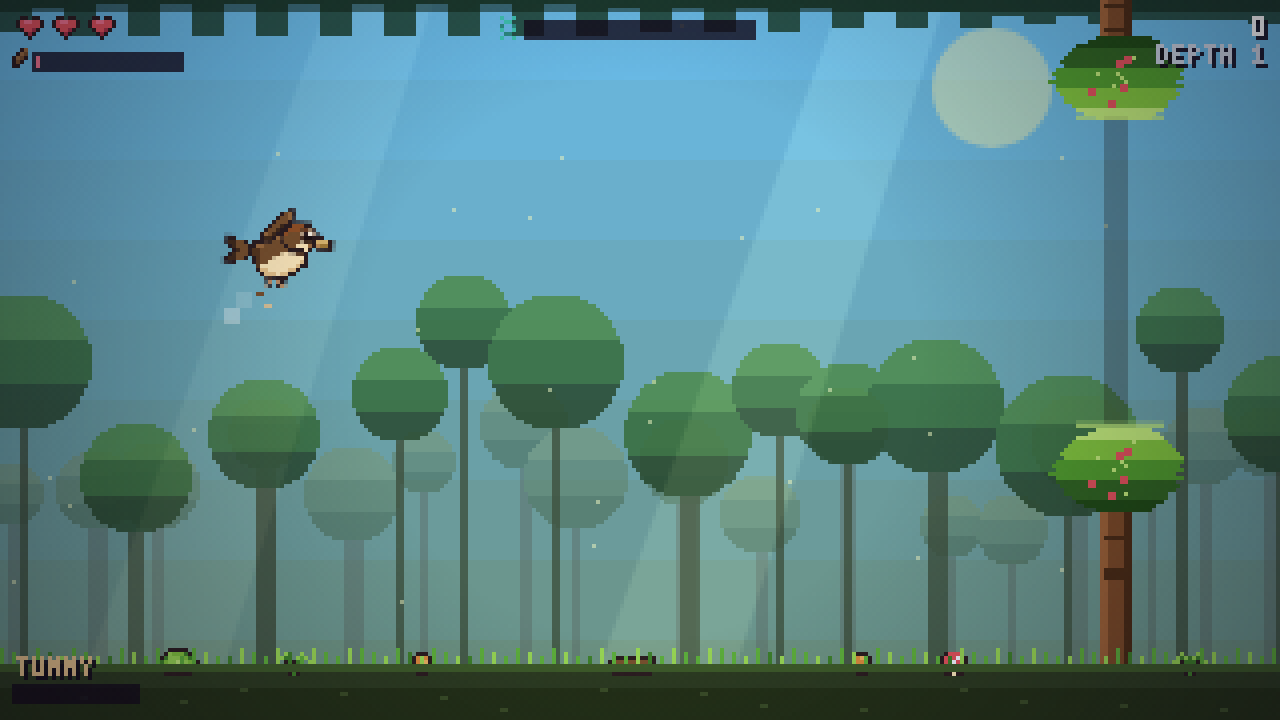
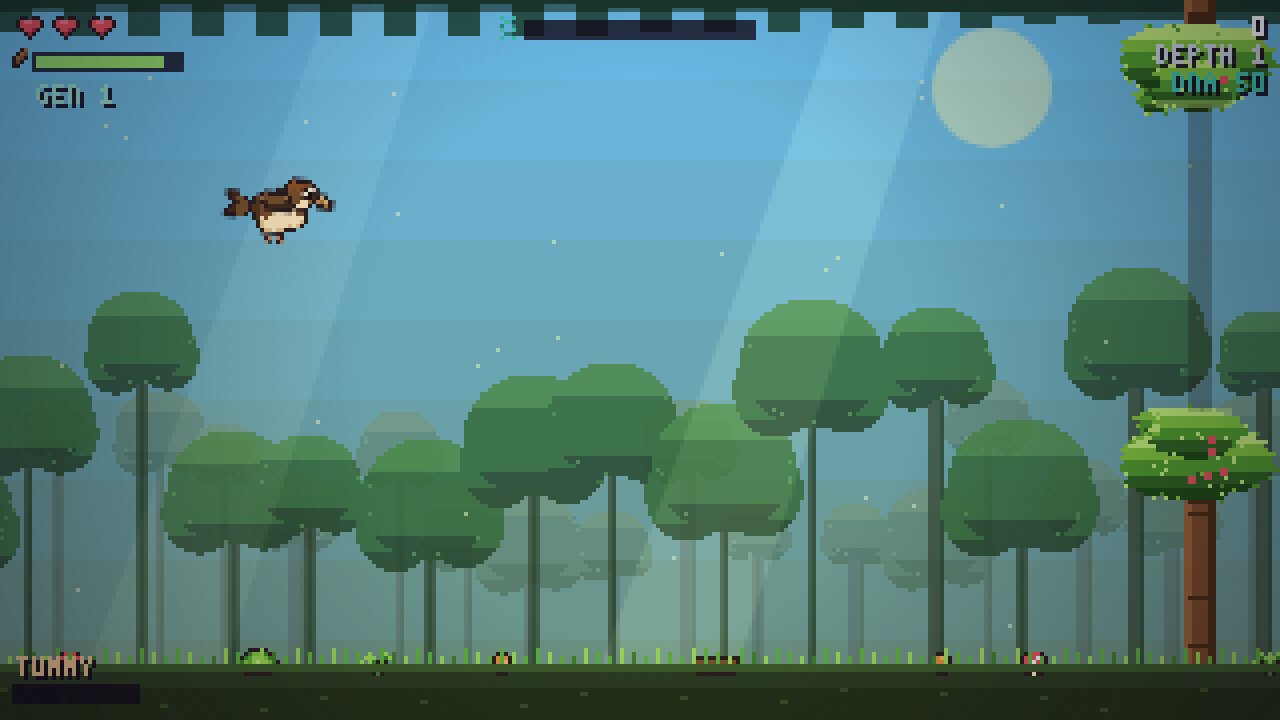
Wooden Stardew UI, Slay-the-Spire menu, detailed bg trees, mini-games
UI reskin (Stardew-Valley wooden)
- Rewrote the shared panel primitive into a carved wooden sign: plank-grain
  frame, dark inner board, corner nails. It propagates to every menu, card,
  nest summary, banner, plaque and death screen for a cohesive warm-wood look

Main menu (Slay-the-Spire style)
- Framed wooden title banner, three glowing wooden card buttons with a
  gold selection border + markers, a perched evolved "hero" bird, Darwin's
  sign, and DNA/best wooden plaques with icons, over a dimmed ember-lit forest

Background trees
- Rebuilt the parallax band builder to draw branchy trees with tapered
  shaded trunks, limbs and layered organic multi-lobe canopies with lit
  crowns and scattered leaves — the background forest now matches the
  foreground detail and reads with real depth

More mini-games
- Added two bonus events alongside the bug chase, rolled at random per leg:
  THERMAL RING (fly through the glowing hoop for a PERFECT boost + energy +
  score) and FRUIT RUSH (a wave of fruit floods in; feast for a combo bonus)

Note: the game stays at its crisp 320x180 integer-scaled resolution; detail
was increased via richer art rather than a resolution change (which would
blur the pixel sprites).

Claude-Session: https://claude.ai/code/session_01SmxdWm76vVoxCaBjYmZVfe

diff --git a/js/game.js b/js/game.js
@@ -256,7 +256,7 @@
       snapperTimer: biome.hazards.indexOf('snapper') >= 0 ? rnd(3.5, 6) : -1,
       hawkTimer: biome.hazards.indexOf('hawk') >= 0 ? rnd(4, 7) : -1,
       falconTimer: biome.hazards.indexOf('falcon') >= 0 ? rnd(5, 9) : -1, falcon: null,
-      chaseTimer: rnd(4.5, 9), chaseBug: null,
+      chaseTimer: rnd(4.5, 9), chaseBug: null, thermal: null, rush: null, eventBanner: null,
       legDiet: { berry: 0, seed: 0, nut: 0, bug: 0, gold: 0 },
       cam: { scale: 1, focusX: W / 2, focusY: H / 2, kickX: 0, kickY: 0 },
     };
@@ -752,16 +752,19 @@
     }
     updateFalcon(dt);
     updateDurians(dt);
-    // chase-bug event
+    // random bonus mini-game event (chase / thermal ring / fruit rush)
     if (world.chaseTimer > 0 && world.phase === 'fly') {
       world.chaseTimer -= dt;
-      if (world.chaseTimer <= 0 && !world.chaseBug && world.spawned > 2) {
-        world.chaseBug = { x: bird.x + 72, y: bird.y, t: 0, life: 6, phase: 0 };
-        if (run.tut.chase) { run.tut.chase = false; addFloat(bird.x, bird.y - 24, 'CHASE THE BUG!', '#fff3a8'); }
-        AUDIO.play('evoReady');
+      if (world.chaseTimer <= 0 && world.spawned > 2 && !world.chaseBug && !world.thermal && !world.rush) {
+        const ev = pick(['chase', 'thermal', 'rush']);
+        if (ev === 'chase') { world.chaseBug = { x: bird.x + 72, y: bird.y, t: 0, life: 6, phase: 0 }; if (run.tut.chase) { run.tut.chase = false; addFloat(bird.x, bird.y - 24, 'CHASE THE BUG!', '#fff3a8'); } AUDIO.play('evoReady'); }
+        else if (ev === 'thermal') startThermal();
+        else startRush();
+        world.chaseTimer = rnd(8, 14); // allow another event later this leg
       }
     }
-    updateChase(dt);
+    updateChase(dt); updateThermal(dt); updateRush(dt);
+    if (world.eventBanner) { world.eventBanner.t += dt; if (world.eventBanner.t > 2.2) world.eventBanner = null; }
 
     // floor contact — varies by environment
     if (!bird.dead && bird.y + 5 > SEA_Y && world.phase === 'fly') {
@@ -1110,6 +1113,54 @@
     drawSpeech(px + 22, py - 4, step.lines, 96);
   }
 
+  // ---------- mini-game events ----------
+  function startThermal() {
+    world.thermal = { x: W + 24, y: rnd(48, SEA_Y - 48), t: 0, passed: false };
+    world.eventBanner = { text: 'THERMAL! FLY THROUGH THE RING', t: 0 };
+    AUDIO.play('evoReady');
+  }
+  function updateThermal(dt) {
+    const th = world.thermal; if (!th) return;
+    th.t += dt; th.x -= world.speed * dt;
+    if (Math.random() < 0.4) parts.push({ type: 'puff', x: th.x + rnd(-9, 9), y: th.y + 12, vx: rnd(-6, 6), vy: -rnd(20, 44), g: -6, t: 0, life: 0.6, color: 'rgba(255,210,140,0.6)' });
+    if (!th.passed && !bird.dead && !bird.latched && Math.abs(th.x - bird.x) < 7 && Math.abs(th.y - bird.y) < 11) {
+      th.passed = true; th.fade = 0.5;
+      bird.boost = Math.max(bird.boost, 0.7); bird.energy = bird.maxEnergy || 100; bird.vy = -110;
+      run.score += 40; run.evo += 20; run.scorePop = 0.25; addDNA(2);
+      AUDIO.play('heart'); AUDIO.play('confirm'); slowmo(0.12);
+      addFloat(bird.x, bird.y - 18, 'PERFECT! +40', '#fff3a8', true);
+      spawnParts(16, function () { return sparkle(th.x + rnd(-10, 10), th.y + rnd(-10, 10), pick(['#fff3a8', '#ffd257', '#a8e4f2'])); });
+    }
+    if (th.x < -22) world.thermal = null;
+  }
+  function drawThermal() {
+    const th = world.thermal; if (!th) return;
+    const pulse = 11 + Math.sin(time * 6) * 1.5;
+    ctx.strokeStyle = th.passed ? 'rgba(150,240,180,0.9)' : 'rgba(255,210,120,' + (0.55 + 0.25 * Math.sin(time * 8)).toFixed(2) + ')';
+    ctx.lineWidth = 2; ctx.beginPath(); ctx.ellipse(th.x, th.y, 7, pulse, 0, 0, 6.28); ctx.stroke();
+    ctx.strokeStyle = 'rgba(255,255,255,0.5)'; ctx.lineWidth = 1;
+    ctx.beginPath(); ctx.ellipse(th.x, th.y, 7, pulse, 0, 0, 6.28); ctx.stroke();
+  }
+  function startRush() {
+    world.rush = { t: 0, dur: 4.5, cd: 0, startFood: run.foodEaten };
+    world.eventBanner = { text: 'FRUIT RUSH! FEAST!', t: 0 };
+    AUDIO.play('evoReady');
+  }
+  function updateRush(dt) {
+    const r = world.rush; if (!r) return;
+    r.t += dt; r.cd -= dt;
+    if (r.cd <= 0 && r.t < r.dur) {
+      r.cd = 0.34;
+      const kind = pick(['berry', 'nectar', 'mango', 'berry', 'gold']), def = FOODS[kind];
+      world.foods.push({ kind: kind, def: def, x: W + 12, baseY: rnd(34, SEA_Y - 26), y: 0, phase: rnd(0, 6.28), wander: 0, hopT: 0, vy: 0 });
+    }
+    if (r.t >= r.dur) {
+      const eaten = run.foodEaten - r.startFood;
+      if (eaten >= 3) { const bonus = eaten * 8; run.score += bonus; addDNA(eaten); addFloat(bird.x, bird.y - 20, 'FEAST! +' + bonus, '#f6c945', true); AUDIO.play('confirm'); }
+      world.rush = null;
+    }
+  }
+
   // ---------- cutscene + island ----------
   const CINE = { reveal: 0, pan: 0.5, panEnd: 1.6, glide: 2.15, flare: 2.55, touch: 2.95, settle: 3.15, end: 3.95 };
   const ISLAND_REST = 176;
@@ -1319,17 +1370,33 @@
   function buildForestBand(w, h, pal, density, canR) {
     const cvv = document.createElement('canvas'); cvv.width = w; cvv.height = h;
     const c = cvv.getContext('2d');
-    let x = 6;
-    while (x < w - 6) {
-      const th = irnd(Math.floor(h * 0.55), h - 2), tw = irnd(2, 5);
-      c.fillStyle = pal.trunk; c.fillRect(x, h - th, tw, th);
-      const cr = irnd(canR[0], canR[1]), cyc = h - th + cr - 2;
-      for (let yy = -cr; yy <= cr; yy++) {
-        const hw = Math.round(cr * Math.sqrt(Math.max(0, 1 - (yy / cr) * (yy / cr))));
-        const lit = 0.5 - yy / cr * 0.5;
-        c.fillStyle = lit > 0.66 ? pal.hi : (lit > 0.33 ? pal.mid : pal.deep);
-        c.fillRect(x + Math.floor(tw / 2) - hw, cyc + yy, hw * 2, 1);
+    function lobe(cx, cy, rx, ry) {
+      for (let dy = -ry; dy <= ry; dy++) {
+        const yy = Math.round(cy + dy);
+        const hw = Math.round(rx * Math.sqrt(Math.max(0, 1 - (dy / ry) * (dy / ry))));
+        if (hw <= 0) continue;
+        const lit = 0.5 - dy / ry * 0.5;
+        c.fillStyle = lit > 0.72 ? pal.hi : (lit > 0.46 ? pal.mid : (lit > 0.2 ? pal.mid : pal.deep));
+        c.fillRect(Math.round(cx - hw), yy, hw * 2, 1);
       }
+    }
+    let x = 8;
+    while (x < w - 6) {
+      const th = irnd(Math.floor(h * 0.5), h - 2), tw = irnd(2, 4), cx = x + Math.floor(tw / 2);
+      // tapered shaded trunk
+      c.fillStyle = pal.trunk; c.fillRect(cx - Math.floor(tw / 2), h - th, tw, th);
+      c.fillStyle = pal.deep; c.fillRect(cx + Math.floor(tw / 2) - 1, h - th, 1, th);
+      const cr = irnd(canR[0], canR[1]), cyc = h - th + cr - 1;
+      // a couple of branches poking toward the canopy
+      c.fillStyle = pal.trunk;
+      for (let bI = 0; bI < 2; bI++) { const side = bI ? 1 : -1; for (let l = 1; l < cr * 0.7; l++) c.fillRect(cx + side * l, Math.round(cyc + cr * 0.4 - l * 0.5), 1, 1); }
+      // layered organic canopy (3 lobes) with a lit crown
+      lobe(cx - cr * 0.5, cyc + cr * 0.18, cr * 0.6, cr * 0.66);
+      lobe(cx + cr * 0.5, cyc + cr * 0.12, cr * 0.6, cr * 0.66);
+      lobe(cx, cyc - cr * 0.22, cr, cr * 0.9);
+      // scattered rim leaves
+      c.fillStyle = pal.hi;
+      for (let i = 0; i < 7; i++) { const a = orand(x * 7 + i, i * 3) * 6.28; c.fillRect(Math.round(cx + Math.cos(a) * cr * 0.92), Math.round(cyc - cr * 0.2 + Math.sin(a) * cr * 0.82), 1, 1); }
       x += tw + irnd(density[0], density[1]);
     }
     return cvv;
@@ -1904,11 +1971,28 @@
   }
 
   // ---------- render: HUD ----------
+  // wooden Stardew-style sign panel: carved wood frame + dark inner board
   function drawPanel(x, y, w2, h2) {
-    ctx.fillStyle = 'rgba(18,12,30,0.92)'; ctx.fillRect(x + 1, y + 1, w2 - 2, h2 - 2);
-    ctx.fillStyle = '#6a5a8c';
-    ctx.fillRect(x + 1, y, w2 - 2, 1); ctx.fillRect(x + 1, y + h2 - 1, w2 - 2, 1);
-    ctx.fillRect(x, y + 1, 1, h2 - 2); ctx.fillRect(x + w2 - 1, y + 1, 1, h2 - 2);
+    x = Math.round(x); y = Math.round(y); w2 = Math.round(w2); h2 = Math.round(h2);
+    // wood frame body with plank grain
+    ctx.fillStyle = '#5c3a1e'; ctx.fillRect(x, y, w2, h2);
+    ctx.fillStyle = '#7c4f28'; ctx.fillRect(x + 1, y + 1, w2 - 2, h2 - 2);
+    ctx.fillStyle = '#8f5e34'; ctx.fillRect(x + 1, y + 1, w2 - 2, 1); ctx.fillRect(x + 1, y + 1, 1, h2 - 2);
+    ctx.fillStyle = '#3f2712'; ctx.fillRect(x + 1, y + h2 - 2, w2 - 2, 1); ctx.fillRect(x + w2 - 2, y + 1, 1, h2 - 2);
+    ctx.fillStyle = '#6a4526';
+    for (let gx = x + 4; gx < x + w2 - 3; gx += 7) ctx.fillRect(gx, y + 1, 1, h2 - 2);
+    // dark inner board
+    const b = 3;
+    if (w2 > 2 * b + 2 && h2 > 2 * b + 2) {
+      ctx.fillStyle = '#241611'; ctx.fillRect(x + b, y + b, w2 - 2 * b, h2 - 2 * b);
+      ctx.fillStyle = '#31201a'; ctx.fillRect(x + b, y + b, w2 - 2 * b, 1);
+      ctx.fillStyle = '#180f0a'; ctx.fillRect(x + b, y + h2 - b - 1, w2 - 2 * b, 1);
+    }
+    // corner nails
+    if (w2 >= 20 && h2 >= 16) {
+      const nn = [[x + 3, y + 3], [x + w2 - 5, y + 3], [x + 3, y + h2 - 5], [x + w2 - 5, y + h2 - 5]];
+      for (const c of nn) { ctx.fillStyle = '#d8b878'; ctx.fillRect(c[0], c[1], 2, 2); ctx.fillStyle = '#8a6a2e'; ctx.fillRect(c[0] + 1, c[1] + 1, 1, 1); }
+    }
   }
 
   function drawSpeech(x, y, lines, w2) {
@@ -2082,6 +2166,7 @@
     drawDurians();
     drawFoods();
     drawChase();
+    drawThermal();
     drawSnappers();
     drawSea();
     drawBirdFull();
@@ -2091,6 +2176,7 @@
     ctx.restore();
     drawHUD();
     drawBanner();
+    if (world.eventBanner && Math.floor(time * 6) % 2) drawTextShadow(ctx, world.eventBanner.text, W / 2, 58, '#fff3a8', 1, 'center');
     if (!cine && run.darwin) drawDarwin();
     if (cine) drawCineTitle();
     if (world.fade > 0) { ctx.fillStyle = 'rgba(10,6,18,' + clamp(world.fade, 0, 1).toFixed(2) + ')'; ctx.fillRect(0, 0, W, H); }
@@ -2130,37 +2216,59 @@
     if (ui.flash > 0) { ctx.fillStyle = 'rgba(63,192,176,' + (ui.flash * 0.6).toFixed(2) + ')'; ctx.fillRect(0, 0, W, H); }
   }
 
+  // small wooden plaque with a label + value (for DNA / BEST)
+  function drawPlaque(x, y, w2, icon, label, col) {
+    drawPanel(x, y, w2, 15);
+    if (icon) ctx.drawImage(icon, x + 4, y + 4);
+    drawTextShadow(ctx, label, x + w2 - 4, y + 5, col, 1, 'right');
+  }
+
   function renderTitle() {
     drawBackground(time * 12);
     drawSea();
-    const ly = 18 + Math.round(Math.sin(time * 1.2) * 2);
+    // atmospheric dim + drifting embers for a Slay-the-Spire mood
+    ctx.fillStyle = 'rgba(12,8,20,0.32)'; ctx.fillRect(0, 0, W, H);
+    ctx.fillStyle = 'rgba(255,196,110,0.5)';
+    for (let i = 0; i < 14; i++) { const ex = (i * 53 + time * (8 + i % 5)) % W; const ey = (H - 20 - ((time * (10 + i % 4) + i * 40) % (H - 30))); ctx.fillRect(Math.round(ex), Math.round(ey), 1, 1); }
+
+    // title banner (wooden sign) + logo
+    drawPanel(W / 2 - 78, 10, 156, 46);
+    const ly = 16 + Math.round(Math.sin(time * 1.2) * 1);
     FONT.drawTextOutline(ctx, 'FLAPPY', W / 2, ly, '#f6c945', 3, 'center');
-    FONT.drawTextOutline(ctx, 'DARWIN', W / 2, ly + 20, '#3fc0b0', 3, 'center');
-    drawTextShadow(ctx, 'EAT. DIGEST. EVOLVE.', W / 2, ly + 42, '#ffffff', 1, 'center');
-    // an evolved demo bird glides across
-    const dbx = 40 + ((time * 26) % (W + 40)), dby = 66 + Math.sin(time * 1.6) * 6;
-    SPR.drawBird(ctx, dbx, dby, Math.sin(time * 1.6 + 1) * 0.1, {
-      frame: Math.floor(time * 9) % 3, open: false, bigWings: true, bigTail: true, crest: 3,
-      blink: Math.sin(time * 0.7) > 0.97, time: time, sx: 1, sy: 1,
+    FONT.drawTextOutline(ctx, 'DARWIN', W / 2, ly + 19, '#3fc0b0', 3, 'center');
+    drawText(ctx, 'EAT. DIGEST. EVOLVE.', W / 2, ly + 38, '#c9b088', 1, 'center');
+
+    // a perched evolved "hero" bird beside the sign
+    const dby = 74 + Math.sin(time * 1.6) * 3;
+    SPR.drawBird(ctx, 46, dby, Math.sin(time * 1.6 + 1) * 0.08, {
+      frame: bird && bird.flapT > 0 ? Math.floor(time * 12) % 3 : 1, open: false, bigWings: true, bigTail: true, crest: 3,
+      legsDown: true, blink: Math.sin(time * 0.7) > 0.97, time: time, sx: 1, sy: 1,
     });
-    if (Math.random() < 0.05) parts.push(feather(dbx - 6, dby + 4));
+    if (Math.random() < 0.04) parts.push(feather(40, dby + 4));
     drawParts();
-    // menu
+
+    // menu as vertical wooden cards
     const items = menuItems(); ui.menuRects = [];
-    const my0 = 94;
+    const cw = 122, mx = W / 2 - cw / 2, my0 = 78;
     for (let i = 0; i < items.length; i++) {
-      const yy = my0 + i * 13, sel = (ui.menuSel || 0) === i, w2 = 92, x = W / 2 - w2 / 2;
-      ui.menuRects.push({ x: x, y: yy - 3, w: w2, h: 12 });
-      if (sel) drawPanel(x, yy - 3, w2, 12);
-      drawTextShadow(ctx, (sel ? '> ' : '') + items[i] + (sel ? ' <' : ''), W / 2, yy, sel ? '#f6c945' : '#c9d2e0', 1, 'center');
+      const sel = (ui.menuSel || 0) === i, yy = my0 + i * 22 + (sel ? -1 : 0), ch = 18;
+      ui.menuRects.push({ x: mx, y: my0 + i * 22, w: cw, h: 20 });
+      drawPanel(mx, yy, cw, ch);
+      if (sel) {
+        ctx.fillStyle = Math.floor(time * 6) % 2 ? '#f6c945' : '#ffd257';
+        ctx.fillRect(mx, yy, cw, 1); ctx.fillRect(mx, yy + ch - 1, cw, 1); ctx.fillRect(mx, yy, 1, ch); ctx.fillRect(mx + cw - 1, yy, 1, ch);
+        drawText(ctx, '>', mx + 8, yy + 7, '#ffd257', 1); drawText(ctx, '<', mx + cw - 12, yy + 7, '#ffd257', 1);
+      }
+      drawTextShadow(ctx, items[i], W / 2, yy + 6, sel ? '#ffe27a' : '#b79666', 1, 'center');
     }
-    // Darwin welcome
-    ctx.drawImage(SPR.DARWIN, 5, H - 46);
-    drawSpeech(28, H - 46, ["I'M DARWIN.", 'TRY TUTORIAL', 'IF NEW HERE!'], 70);
-    // footer stats
-    drawTextShadow(ctx, 'DNA ' + save.dna, W - 6, H - 42, '#3fc0b0', 1, 'right');
-    if (best.score > 0) drawTextShadow(ctx, 'BEST ' + best.score + ' D' + best.depth, W - 6, H - 33, '#f6c945', 1, 'right');
-    drawText(ctx, 'ARROWS+ENTER / TAP', W - 6, H - 8, '#8f86a8', 1, 'right');
+
+    // Darwin welcome sign
+    ctx.drawImage(SPR.DARWIN, 4, H - 44);
+    drawSpeech(26, H - 45, ["I'M DARWIN.", 'PICK TUTORIAL', 'IF NEW HERE!'], 74);
+    // stat plaques
+    drawPlaque(W - 74, H - 46, 70, SPR.DNA, 'DNA ' + save.dna, '#8fd6c8');
+    drawPlaque(W - 74, H - 29, 70, SPR.SKULL, best.score > 0 ? (best.score + ' D' + best.depth) : 'NO RUNS', '#f6c945');
+    drawText(ctx, 'ARROWS + ENTER / TAP', W / 2, H - 6, '#8f7a5a', 1, 'center');
   }
 
   function renderOver() {
@@ -2261,6 +2369,8 @@
     kill: function () { if (bird && !bird.dead) { bird.hearts = 0; bird.dead = true; bird.deathBy = 'tree'; gameOver(); } },
     forceChase: function () { if (world) world.chaseBug = { x: bird.x + 44, y: bird.y, t: 0, life: 6, phase: 0 }; },
     forceFalcon: function () { if (world) world.falcon = { state: 'chase', t: 0, x: bird.x - 34, y: bird.y, snapCd: 0, first: false }; },
+    forceThermal: function () { if (world) { world.thermal = { x: bird.x + 60, y: bird.y, t: 0, passed: false }; world.eventBanner = { text: 'THERMAL! FLY THROUGH THE RING', t: 0 }; } },
+    forceRush: function () { if (world) startRush(); },
     forceLatch: function () {
       if (!world) return 'no world';
       for (const o of world.obstacles) { if (o.snake && o.snake.state !== 'spent') { startLatch(o, o.snake); return 'ok'; } }

diff --git a/README.md b/README.md
@@ -52,8 +52,11 @@ the undergrowth and you'll get hurt.
    frogs, mangoes and rare golden fruit. Catch it **on your beak** and it sits
    there while you **digest**. You can't grab more until it goes down — and
    over-gulping leaves you **STUFFED**: heavy and weak-winged.
-4. **Chase the bug.** Now and then a glowing beetle darts ahead — pursue it and
-   snatch it for a big burst of score, evolution and full energy.
+4. **Bonus mini-games.** Between obstacles a surprise event may appear:
+   - 🐛 **Bug chase** — a glowing beetle darts ahead; pursue and snatch it.
+   - 💨 **Thermal ring** — fly cleanly through the glowing hoop for a PERFECT
+     boost, full energy and bonus.
+   - 🍓 **Fruit rush** — a wave of fruit floods in; feast for a combo bonus.
 5. **Boost to escape.** Double-tap (double-click / double-press) to **dash** — a
    burst of speed that costs wing energy. Use it to outrun what's chasing you.
 6. **Dodge the dangers.** Every threat is **telegraphed and fair**:
@@ -123,6 +126,15 @@ wider beak, a fanned tail, a growing crest. Every run is procedural: layouts,
 food, paths and dangers differ each time.
 
 ![Branchy trees in golden light](docs/forest.png)
+
+## Look & feel
+
+- A **Slay-the-Spire-style** interactive main menu — a framed wooden title
+  banner, glowing wooden card buttons, Darwin's sign, and DNA/best plaques.
+- A cohesive **wooden, Stardew-Valley-style UI** across every panel, card and
+  sign — carved frames, dark boards and corner nails.
+- Layered, branchy **background forests** with lit organic canopies and depth,
+  god-rays, drifting pollen and per-biome light.
 
 ## Tech
 
